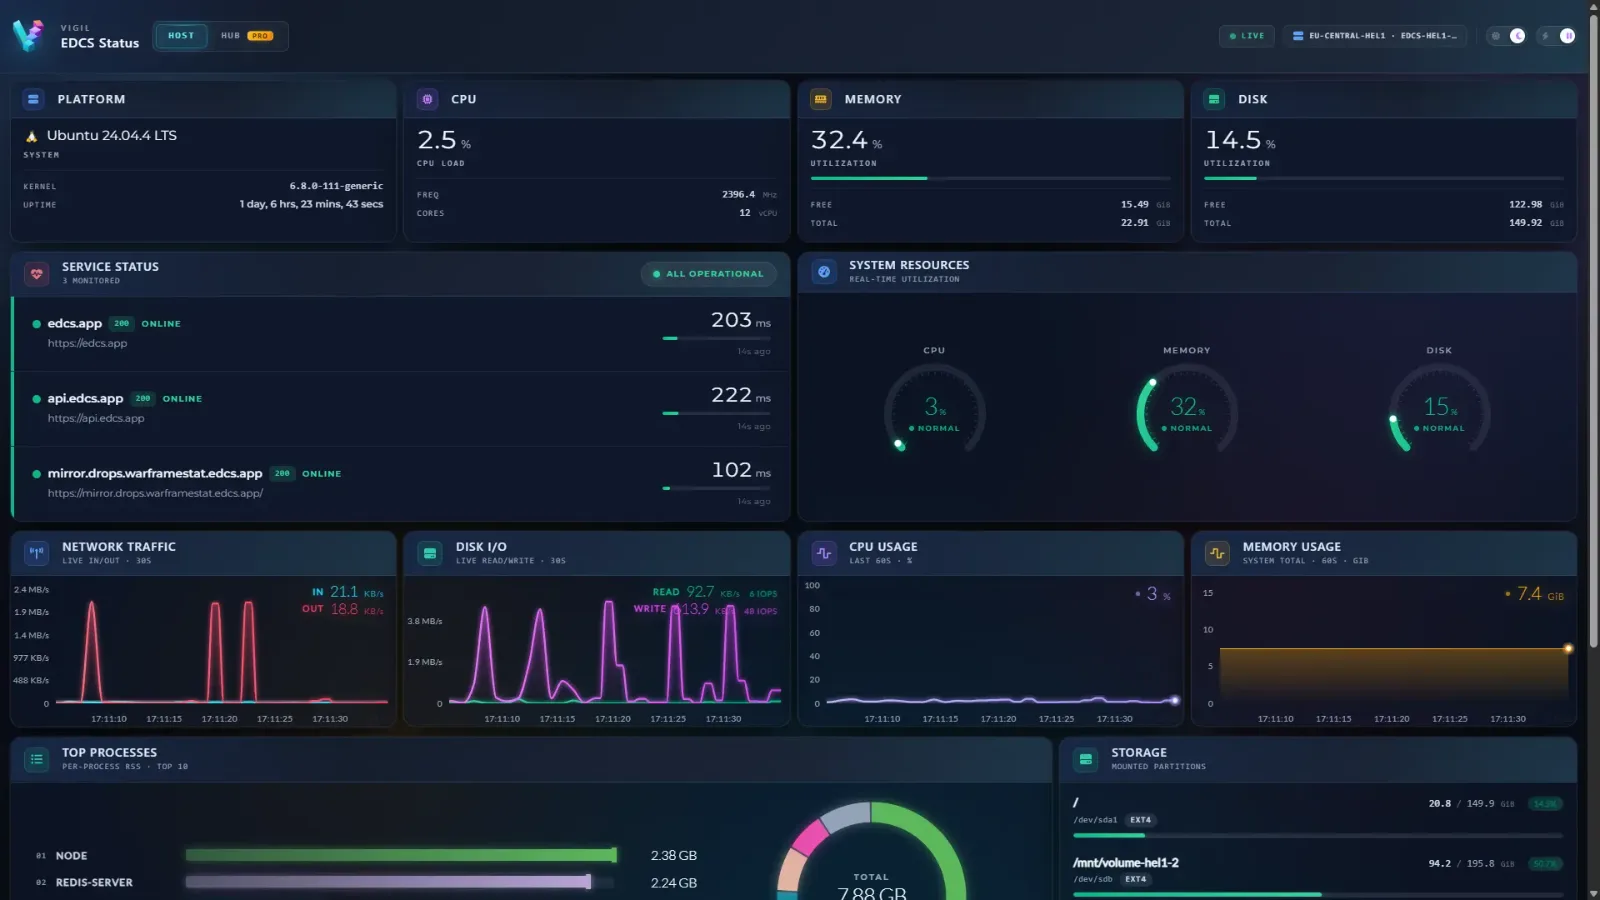
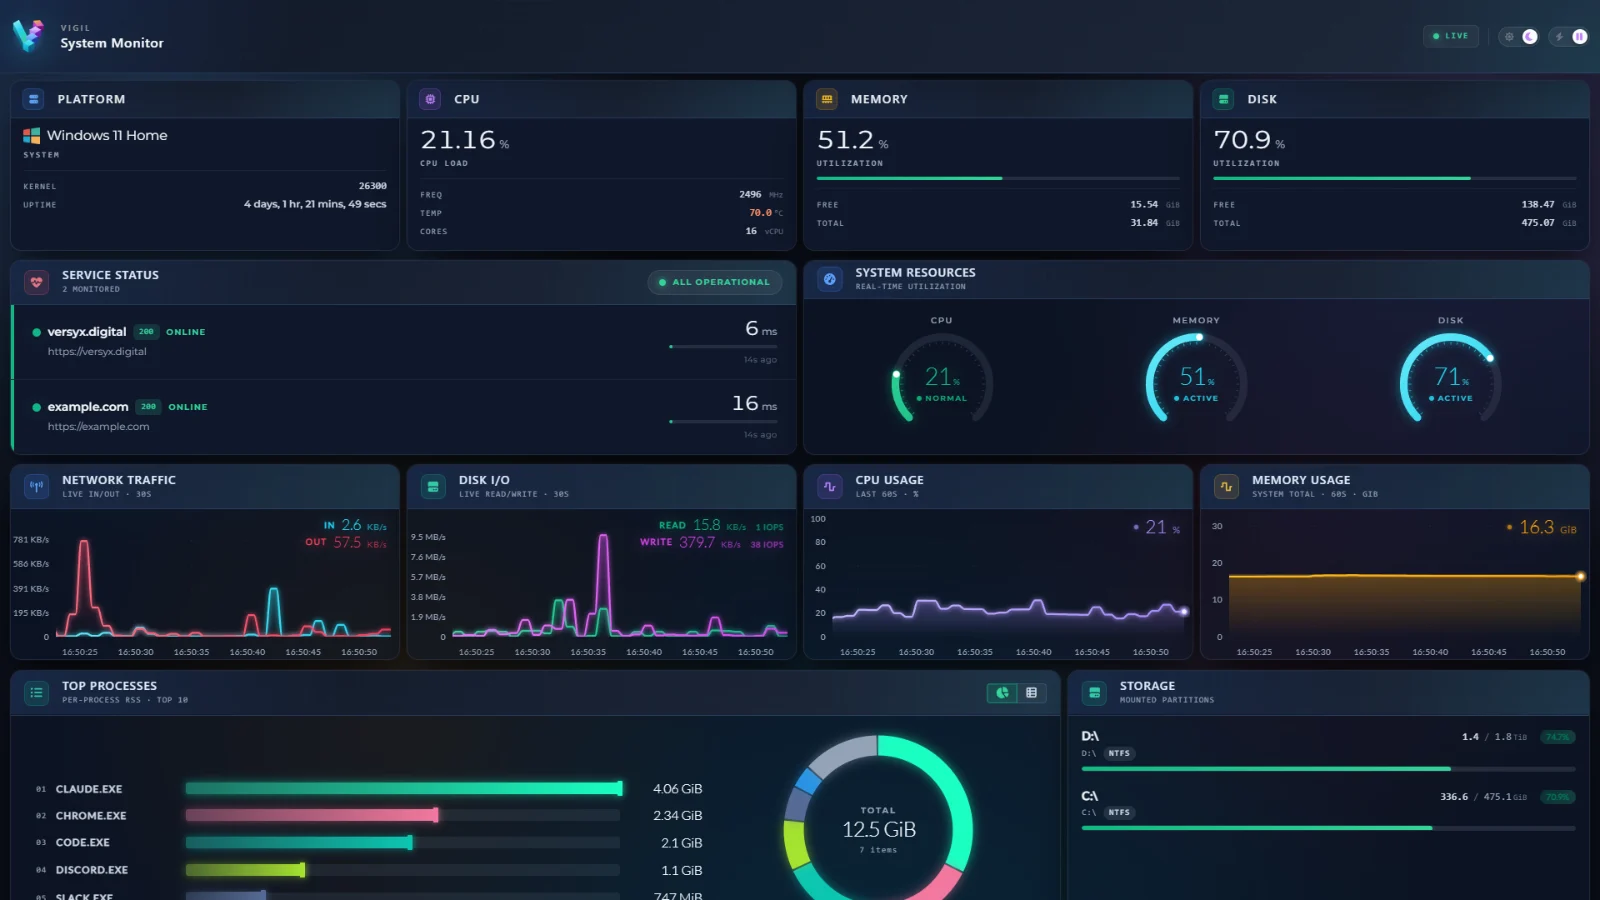
Projects: Vigil is one codebase now, with a project site
Describe the collector with its built-in dashboard, link the product site at /vigil and the single repository, drop the separate built-in dashboard node from the diagram, and replace the screenshot that showed the old hub switch.

Claude-Session: https://claude.ai/code/session_01YGkPSyQGQt87XJHESUbGTn

diff --git a/src/content/projects.ts b/src/content/projects.ts
@@ -182,37 +182,38 @@ export const projects: Project[] = [
     sources: ['site', 'repository'],
   },
   {
-    // Sources: the READMEs and docs of sentrychris/vigil and sentrychris/vigil-collector,
-    // read on 2026-11-11. The dashboard's Hub mode (which talks to a separate hub
-    // service) is left out: the collector has since removed its hub client.
+    // Sources: the README and docs of sentrychris/vigil-collector and the product
+    // site at /vigil, read on 2026-11-11. The dashboard now lives in that repository
+    // and is built into the collector binary; the old hub and Vigil Pro are gone.
     id: 'vigil',
     ref: '02',
     name: 'Vigil',
     kind: 'Server monitoring',
     tagline: 'A lightweight monitoring dashboard for a server, fed by a collector that barely registers on it.',
     description:
-      'Two parts. Vigil Collector is a small Rust service that samples a machine once a second and serves the result over HTTP and WebSocket. Vigil is the dashboard that draws it: live charts for processor, memory, disks, network and the busiest processes.',
+      'One small Rust program that samples a machine once a second, serves the result over HTTP and WebSocket, and carries its own live dashboard: charts for processor, memory, disks, network and the busiest processes, built into the binary.',
     purpose: 'See what a server is doing right now, without the monitor becoming one of the things using it up.',
     challenges: [
       'Keeping the collector cheap. A profiled tick cost about 11,000 microseconds, most of it scanning processes. Scanning the top processes and reading processor frequency every fifth tick, and re-listing mounted disks once a minute, brought the average to about 3,000.',
       'Serving many dashboards for the price of one. A single sampler builds each snapshot and caches it as ready-made JSON, so every HTTP request and WebSocket frame is a read of that cache, not new work.',
       'One codebase for Linux, Windows and macOS. Each platform reads disks, disk activity, temperature and process memory in its own way, with a fallback so every field is always present in the payload.',
+      'Processor temperature on Windows without a kernel driver. The collector reads it from HWiNFO, MSI Afterburner or LibreHardwareMonitor when one is running, and otherwise from the ACPI thermal zone, but only once that value has been seen to change, since many desktops report a fixed placeholder there.',
     ],
     implementation: [
       'The collector is written in Rust on Tokio and Axum. One task ticks once a second, collects the metrics off the main loop and publishes the snapshot atomically.',
       'A dashboard asks for a single-use worker id over HTTP, then opens a WebSocket with it. The id expires after five seconds if it is not claimed.',
       'A configurable list of URLs is checked on request for reachability and response time.',
       'The dashboard is built with Vue 3, TypeScript and Pinia, with the charts drawn in D3. It shows live data over WebSocket, or polls over HTTP every 30 seconds, with a switch between the two.',
-      'The collector also carries its own built-in dashboard, embedded in the binary.',
+      'The dashboard is built with Vite as part of the Cargo build and embedded in the binary, so one file serves both the API and the page. It always talks to the collector that served it, so there is nothing to configure.',
     ],
     achievements: [
       'Idle processor use settles at around 0.23% of one core, however many clients are connected.',
-      'The release binary is about 5 MB and needs nothing shipped alongside it.',
+      'The release binary is about 5 MB with the dashboard included, and needs nothing shipped alongside it.',
       'Continuous integration builds it on Linux, Windows and macOS, then starts the binary and checks each endpoint responds.',
     ],
     facts: [
       { label: 'Collector', value: 'Rust · Tokio · Axum' },
-      { label: 'Dashboard', value: 'Vue 3 · TypeScript · D3' },
+      { label: 'Dashboard', value: 'Vue 3 · D3, built in' },
       { label: 'Runs on', value: 'Linux · Windows · macOS' },
       { label: 'Cadence', value: 'One snapshot a second' },
       { label: 'Licence', value: 'MIT' },
@@ -220,11 +221,11 @@ export const projects: Project[] = [
     technologies: ['rust', 'vue', 'typescript', 'd3', 'vite', 'sass', 'bootstrap', 'websockets', 'rest', 'vitest', 'playwright', 'github-actions'],
     services: ['webapps', 'apis'],
     links: [
-      { label: 'Dashboard source', href: 'https://github.com/sentrychris/vigil', kind: 'source' },
-      { label: 'Collector source', href: 'https://github.com/sentrychris/vigil-collector', kind: 'source' },
+      { label: 'Project site', href: 'https://versyx.digital/vigil/', kind: 'live' },
+      { label: 'Source', href: 'https://github.com/sentrychris/vigil-collector', kind: 'source' },
     ],
     images: [
-      { src: vigilShot('01'), thumb: vigilShot('01-thumb'), alt: 'The Vigil dashboard: cards for platform, processor, memory and disk, a service status list, gauges, and live charts of network traffic, disk activity, processor and memory use.', width: 1600, height: 900, caption: 'The dashboard, live on a server.' },
+      { src: vigilShot('01'), thumb: vigilShot('01-thumb'), alt: 'The Vigil dashboard: cards for platform, processor, memory and disk, a service status list, gauges, and live charts of network traffic, disk activity, processor and memory use.', width: 1600, height: 900, caption: 'The dashboard, live on a Windows PC.' },
     ],
     diagram: {
       caption: 'From the machine being watched to the charts on screen.',
@@ -272,12 +273,12 @@ export const projects: Project[] = [
         },
         {
           id: 'dashboard',
-          label: 'Vigil dashboard',
-          sub: 'Vue 3 · D3',
+          label: 'Dashboard',
+          sub: 'inside the binary',
           kind: 'surface',
           col: 4,
           row: 1,
-          detail: 'Live gauges and charts for processor, memory, disks, disk activity and network, with tables of the busiest processes. Runs live over WebSocket or polls over HTTP every 30 seconds.',
+          detail: 'Live gauges and charts for processor, memory, disks, disk activity and network, with tables of the busiest processes. Built into the collector and served at its own address, so one file is enough to see a machine in a browser. Runs live over WebSocket or polls over HTTP every 30 seconds.',
           tech: ['vue', 'typescript', 'd3'],
         },
         {
@@ -290,22 +291,12 @@ export const projects: Project[] = [
           detail: 'A configurable list of web addresses, checked on request for whether they respond and how quickly. The list can be changed without restarting the collector.',
         },
         {
-          id: 'builtin',
-          label: 'Built-in dashboard',
-          sub: 'inside the binary',
-          kind: 'surface',
-          col: 3,
-          row: 2,
-          detail: 'A small dashboard embedded in the collector itself, so one file is enough to see a machine’s numbers in a browser.',
-          optional: true,
-        },
-        {
           id: 'own',
           label: 'Your own app',
           sub: 'same endpoints',
           kind: 'external',
-          col: 4,
-          row: 0,
+          col: 3,
+          row: 2,
           detail: 'Anything that can make an HTTP request or open a WebSocket can read the same snapshots.',
           optional: true,
         },
@@ -316,8 +307,7 @@ export const projects: Project[] = [
         { from: 'cache', to: 'server' },
         { from: 'server', to: 'dashboard' },
         { from: 'probes', to: 'server', fromSide: 'b', toSide: 't' },
-        { from: 'server', to: 'builtin', fromSide: 'b', toSide: 't' },
-        { from: 'server', to: 'own', dashed: true },
+        { from: 'server', to: 'own', fromSide: 'b', toSide: 't', dashed: true },
       ],
     },
     signature: 'rings',
